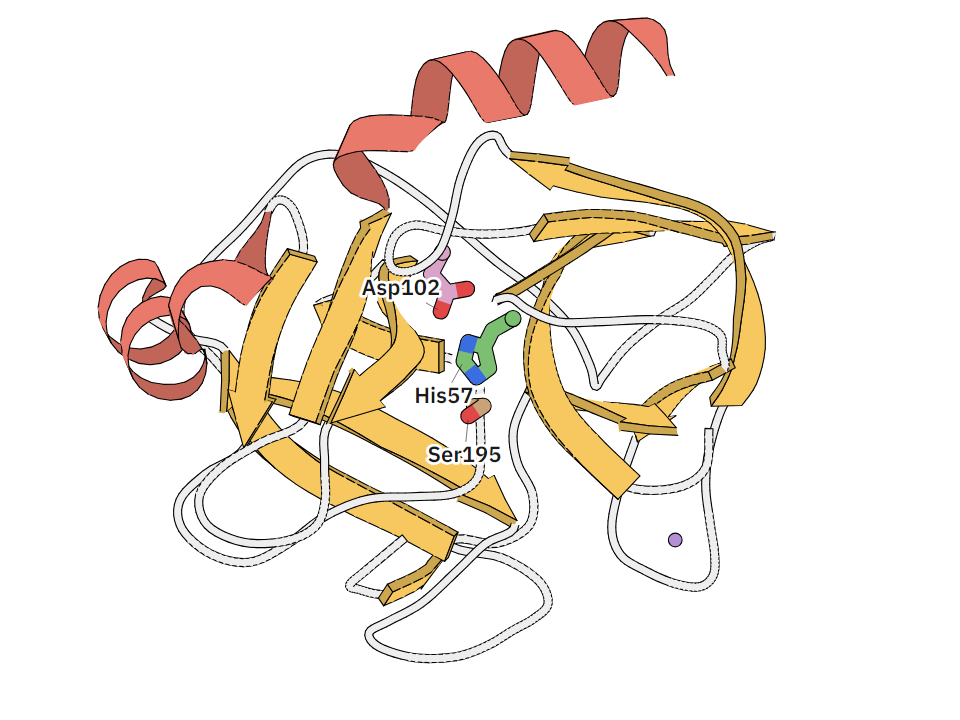
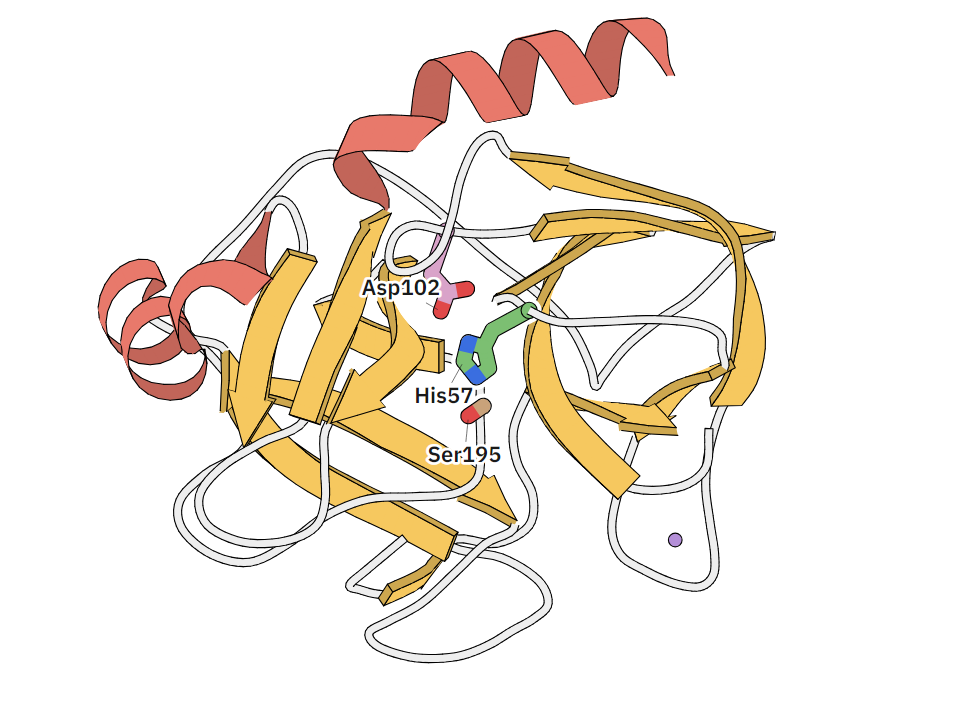
Side chains grow out of their ribbons; flat outlines unbroken again
A strand or coil is smoothed through its Cα (Priestle's smoothing, as MOLSCRIPT; the
sketched ribbon flattens its sheets), so a Cα lies up to an ångström off the ribbon drawn
for it. With the side-chain helper leaving the backbone to the cartoon, a side chain was
drawn from that Cα and floated beside its ribbon. Its Cα is now drawn where the ribbon
passes (ribbonAnchors), so the side chain grows out of it. The ribbons themselves are as
they were: the elements and the smoothing are the cartoon's own, shared
(ribbonElements, priestle). Only side chains on smoothed residues move.

Flat ribbons: the 3 px a face runs under the next one covered the inner half of that
face's outline when drawn after it, and the outlines of thin tubes came out dashed. The
run-on is now a tab kept half an outline clear of the ribbon's edges, where the outlines
themselves cover the seam: seamless at full size and at a fifth, outlines whole.

Changed region(s): [[0.5312, 0.3972, 0.5625, 0.4583], [0.4375, 0.3056, 0.4688, 0.3667]]

diff --git a/app/src/classic/engine.js b/app/src/classic/engine.js
@@ -1444,6 +1444,28 @@ function backboneTraces(atoms,sel){
     if(!cur){cur={atoms:[]};traces.push(cur)}cur.atoms.push(a)}
   return traces.filter(t=>t.atoms.length>=2);
 }
+/* the elements a chain's engraved ribbon is made of, as MolAuto writes them: runs of H (≥3 residues) and E (≥2), the
+   rest coil; neighbours share their end residue */
+function ribbonElements(A){const n=A.length;
+  const ss=A.map(a=>a.nucleic?'L':(a.ss==='H'||a.ss==='E'?a.ss:'L'));
+  const runs=[];for(let i=0;i<n;){let j=i;while(j+1<n&&ss[j+1]===ss[i])j++;runs.push({t:ss[i],s:i,e:j});i=j+1}
+  for(const r of runs)if((r.t==='H'&&r.e-r.s<2)||(r.t==='E'&&r.e-r.s<1))r.t='L';
+  const el=[];for(const r of runs){const last=el[el.length-1];if(last&&last.t==='L'&&r.t==='L')last.e=r.e;else el.push({...r})}
+  for(let k=0;k<el.length-1;k++)el[k].e=el[k+1].s;   // each element ends on the residue where the next begins
+  return el}
+/* Priestle's smoothing of a strand or coil (as MOLSCRIPT): each inner point halfway to the middle of its neighbours */
+function priestle(pts,steps){for(let s=0;s<steps;s++){const tmp=pts.map(p=>p.slice());
+  for(let i=1;i<pts.length-1;i++){const a=pts[i-1],b=pts[i+1],c=pts[i];tmp[i]=[((a[0]+b[0])/2+c[0])/2,((a[1]+b[1])/2+c[1])/2,((a[2]+b[2])/2+c[2])/2]}
+  for(let i=1;i<pts.length-1;i++)pts[i]=tmp[i]}}
+/* where the drawn ribbon passes each residue whose Cα it does not go through, by the Cα's id: strands and coils are
+   smoothed (and the sketched ribbon flattens its sheets), so their Cα lie up to an ångström off the ribbon. A side
+   chain whose backbone is left to the cartoon is drawn from here, so it grows out of the ribbon, not beside it */
+function ribbonAnchors(atoms,sel){const out=new Map();
+  for(const tr of backboneTraces(atoms,sel)){const A=tr.atoms,n=A.length;
+    if(cfg.rep.cartoonStyle==='engraved'){for(const e of ribbonElements(A)){const len=e.e-e.s+1;if(len<2||(e.t==='H'&&len>=3))continue;
+        const p=[];for(let i=e.s;i<=e.e;i++)p.push(A[i].pos.slice());priestle(p,2);for(let k=1;k<len-1;k++)out.set(A[e.s+k].id,p[k])}}
+    else for(let i=1;i<n-1;i++)if(A[i].ss==='E')out.set(A[i].id,[0,1,2].map(k=>0.25*A[i-1].pos[k]+0.5*A[i].pos[k]+0.25*A[i+1].pos[k]))}
+  return out}
 function catmull(P,i,t){const p0=P[Math.max(0,i-1)],p1=P[i],p2=P[Math.min(P.length-1,i+1)],p3=P[Math.min(P.length-1,i+2)];const t2=t*t,t3=t2*t;
   return[0,1,2].map(k=>0.5*((2*p1[k])+(-p0[k]+p2[k])*t+(2*p0[k]-5*p1[k]+4*p2[k]-p3[k])*t2+(-p0[k]+3*p1[k]-3*p2[k]+p3[k])*t3))}
 function sketchOffsets(pts,seed,passes){ // jittered copies of a polyline (no resampling), one per pass
@@ -1470,7 +1492,6 @@ function buildCartoonEngraved(items,atoms,sel,proj,seedBase){
   const add=(a,b,f=1)=>[a[0]+b[0]*f,a[1]+b[1]*f,a[2]+b[2]*f],mid=(a,b)=>[(a[0]+b[0])/2,(a[1]+b[1])/2,(a[2]+b[2])/2],scl=(a,f)=>[a[0]*f,a[1]*f,a[2]*f];
   const herm=(p0,p1,v0,v1,t)=>{const t2=t*t,t3=t2*t;const h1=2*t3-3*t2+1,h2=t3-2*t2+t,h3=-2*t3+3*t2,h4=t3-t2;return[0,1,2].map(k=>h1*p0[k]+h2*v0[k]+h3*p1[k]+h4*v1[k])};
   const hermT=(p0,p1,v0,v1,t)=>{const t2=t*t;const h1=6*t2-6*t,h2=3*t2-4*t+1,h3=-6*t2+6*t,h4=3*t2-2*t;return[0,1,2].map(k=>h1*p0[k]+h2*v0[k]+h3*p1[k]+h4*v1[k])};
-  const priestle=(pts,steps)=>{for(let s=0;s<steps;s++){const tmp=pts.map(p=>p.slice());for(let i=1;i<pts.length-1;i++)tmp[i]=mid(mid(pts[i-1],pts[i+1]),pts[i]);for(let i=1;i<pts.length-1;i++)pts[i]=tmp[i]}};
   const nz=n=>proj.rot([n[0]+FIT.cx,n[1]+FIT.cy,n[2]+FIT.cz])[2]; // z of a direction in view space (+ toward the viewer)
   const P2=p=>{const q=proj.proj(p);return[q.x,q.y,q.z,q.d,q.fog]};
   const HA=32*Math.PI/180,HB=-11*Math.PI/180,HH=4.7;
@@ -1506,11 +1527,18 @@ function buildCartoonEngraved(items,atoms,sel,proj,seedBase){
         if(lost>0.02&&!fl)fillC=fogged(mix(P.paper,T.coilLine?col:T.hatch,(T.coilLine?0.55:0.3)*lost),fog);
         hl={lw,ks}}
       if(T.flat){ /* solid faces meet edge to edge, and two antialiased edges let the paper through as a hairline: each face runs
-          on under the next one of its ribbon, so the colour is unbroken and each face is one shape. 3 px (or half the face):
-          enough for a pixel's corner (0.7 px from its centre) when the drawing is shrunk to a fifth, as an SVG placed in a
-          slide is. Not past an inked end, an arrow's point or the ribbon's last face (the next element is another colour) */
-        const ext=(a,b)=>{const L=Math.hypot(b[0]-a[0],b[1]-a[1]),e=Math.min(3,0.5*L);return L>1e-6?[b[0]+(b[0]-a[0])/L*e,b[1]+(b[1]-a[1])/L*e]:b};
-        const f=edges[1]||last||alpha<1||Math.hypot(q[2][0]-q[1][0],q[2][1]-q[1][1])<1?q:[q[0],ext(q[0],q[1]),ext(q[3],q[2]),q[3]];poly(ctx,f);ctx.fillStyle=kind==='side'?side:fillC;ctx.fill()}
+          on under the next one of its ribbon in a tab, so the colour is unbroken and each face is one shape. 3 px (or half
+          the face): enough for a pixel's corner (0.7 px from its centre) when the drawing is shrunk to a fifth, as an SVG
+          placed in a slide is. The tab keeps half an outline clear of the ribbon's edges, where the outlines cover the seam:
+          drawn after the next face, it must not cover the inner half of that face's outline (the outline came out dashed).
+          Not past an inked end, an arrow's point or the ribbon's last face (the next element is another colour) */
+        let f=q;const W=Math.hypot(q[2][0]-q[1][0],q[2][1]-q[1][1]),inset=0.5*wInk+0.25;
+        const La=Math.hypot(q[1][0]-q[0][0],q[1][1]-q[0][1]),Lb=Math.hypot(q[2][0]-q[3][0],q[2][1]-q[3][1]);
+        if(!(edges[1]||last||alpha<1)&&W>2*inset+0.5&&La>1e-6&&Lb>1e-6){const e=Math.min(3,0.5*Math.min(La,Lb));
+          const ia=[q[1][0]+(q[2][0]-q[1][0])/W*inset,q[1][1]+(q[2][1]-q[1][1])/W*inset],ib=[q[2][0]+(q[1][0]-q[2][0])/W*inset,q[2][1]+(q[1][1]-q[2][1])/W*inset];
+          const ua=[(q[1][0]-q[0][0])/La*e,(q[1][1]-q[0][1])/La*e],ub=[(q[2][0]-q[3][0])/Lb*e,(q[2][1]-q[3][1])/Lb*e];
+          f=[q[0],q[1],ia,[ia[0]+ua[0],ia[1]+ua[1]],[ib[0]+ub[0],ib[1]+ub[1]],ib,q[2],q[3]]}
+        poly(ctx,f);ctx.fillStyle=kind==='side'?side:fillC;ctx.fill()}
       else{poly(ctx,q);if(kind==='side'){ctx.fillStyle=side;ctx.fill();ctx.lineWidth=0.5;ctx.strokeStyle=side;ctx.stroke()}else{ctx.fillStyle=fillC;ctx.fill();ctx.lineWidth=0.6;ctx.strokeStyle=fillC;ctx.stroke()}}
       const la=Math.hypot(q[1][0]-q[0][0],q[1][1]-q[0][1])+Math.hypot(q[2][0]-q[3][0],q[2][1]-q[3][1]);
       if(kind==='plain'&&T.coilLine&&la>0.05){ctx.lineWidth=lw0*1.6;ctx.strokeStyle=hatch;ctx.beginPath();ctx.moveTo((q[0][0]+q[3][0])/2,(q[0][1]+q[3][1])/2);ctx.lineTo((q[1][0]+q[2][0])/2,(q[1][1]+q[2][1])/2);ctx.stroke()}
@@ -1534,11 +1562,7 @@ function buildCartoonEngraved(items,atoms,sel,proj,seedBase){
     const A=tr.atoms,n=A.length;const pts=A.map(a=>a.pos.slice());
     const rc=(i,t)=>ownColor(A[i])||(colourMode==='rainbow'?(mode==='ink colour'?hsv(0.6667*(1-i/Math.max(1,n-1)),0.9,0.8):hsv(0.6667*(1-i/Math.max(1,n-1)),0.75,0.95)):colourMode==='carbon'?carbonColor(A[i]):colourMode==='chain'?chainColor(A[i]):ssCol(t));
     // elements: runs of H (≥3 residues) and E (≥2), the rest coil; neighbours share their end residue, as MolAuto writes them
-    const ss=A.map(a=>a.nucleic?'L':(a.ss==='H'||a.ss==='E'?a.ss:'L'));
-    const runs=[];for(let i=0;i<n;){let j=i;while(j+1<n&&ss[j+1]===ss[i])j++;runs.push({t:ss[i],s:i,e:j});i=j+1}
-    for(const r of runs)if((r.t==='H'&&r.e-r.s<2)||(r.t==='E'&&r.e-r.s<1))r.t='L';
-    const el=[];for(const r of runs){const last=el[el.length-1];if(last&&last.t==='L'&&r.t==='L')last.e=r.e;else el.push({...r})}
-    for(let k=0;k<el.length-1;k++)el[k].e=el[k+1].s;   // each element ends on the residue where the next begins
+    const el=ribbonElements(A);
     for(const e of el){
       const idx=[];for(let i=e.s;i<=e.e;i++)idx.push(i);if(idx.length<2)continue;
       const alpha=A[idx[0]].alpha??1;
@@ -2070,6 +2094,11 @@ function renderFrame(ctx,W,H,frame,dpr){
       SITE={x:sx,y:sy,z:sz,zmin,r:r+2.5*proj.pxPerA,quiet:clamp(cfg.rep.siteQuiet??0.35,0,1),cut:cfg.rep.siteCutaway!==false}}}
   const stickAtoms=st.atoms.filter(a=>{if(!selS(a)&&!a._site)return false;if(a.el==='H'&&!SH.H)return false;
     if(cfg.rep.sideChainHelper&&cartoonRes.has((a.chain||'')+'/'+a.resi)&&(a.name==='N'||a.name==='C'||a.name==='O'||a.name==='OXT'))return false;return true});
+  // where the backbone is left to the cartoon, a side chain grows out of the ribbon: its Cα is drawn where the ribbon
+  // passes (ribbonAnchors), not where the smoothing left it
+  if(cartoonOn&&cfg.rep.sideChainHelper&&stickAtoms.some(a=>a.name==='CA'&&!a.nucleic&&cartoonRes.has((a.chain||'')+'/'+a.resi))){
+    const anchors=ribbonAnchors(st.atoms,selC);
+    for(const a of stickAtoms){if(a.name!=='CA'||a.nucleic)continue;const q=anchors.get(a.id);if(q)pos[a.id]=proj.proj(q)}}
   const stickIds=new Set(stickAtoms.map(a=>a.id));
   const stickBonds=st.bonds.filter(b=>stickIds.has(b.a)&&stickIds.has(b.b));
   const surfAtoms=reps.surface&&reps.surface.trim()?st.atoms.filter(a=>selF(a)&&(SH.H||a.el!=='H')):[];

diff --git a/python/molsketch/_core.js b/python/molsketch/_core.js
@@ -5944,6 +5944,53 @@
       }
       return traces.filter((t) => t.atoms.length >= 2);
     }
+    function ribbonElements(A) {
+      const n = A.length;
+      const ss = A.map((a) => a.nucleic ? "L" : a.ss === "H" || a.ss === "E" ? a.ss : "L");
+      const runs = [];
+      for (let i = 0; i < n; ) {
+        let j = i;
+        while (j + 1 < n && ss[j + 1] === ss[i]) j++;
+        runs.push({ t: ss[i], s: i, e: j });
+        i = j + 1;
+      }
+      for (const r of runs) if (r.t === "H" && r.e - r.s < 2 || r.t === "E" && r.e - r.s < 1) r.t = "L";
+      const el = [];
+      for (const r of runs) {
+        const last = el[el.length - 1];
+        if (last && last.t === "L" && r.t === "L") last.e = r.e;
+        else el.push({ ...r });
+      }
+      for (let k = 0; k < el.length - 1; k++) el[k].e = el[k + 1].s;
+      return el;
+    }
+    function priestle(pts, steps) {
+      for (let s = 0; s < steps; s++) {
+        const tmp = pts.map((p) => p.slice());
+        for (let i = 1; i < pts.length - 1; i++) {
+          const a = pts[i - 1], b = pts[i + 1], c = pts[i];
+          tmp[i] = [((a[0] + b[0]) / 2 + c[0]) / 2, ((a[1] + b[1]) / 2 + c[1]) / 2, ((a[2] + b[2]) / 2 + c[2]) / 2];
+        }
+        for (let i = 1; i < pts.length - 1; i++) pts[i] = tmp[i];
+      }
+    }
+    function ribbonAnchors(atoms, sel) {
+      const out = /* @__PURE__ */ new Map();
+      for (const tr of backboneTraces(atoms, sel)) {
+        const A = tr.atoms, n = A.length;
+        if (cfg.rep.cartoonStyle === "engraved") {
+          for (const e of ribbonElements(A)) {
+            const len = e.e - e.s + 1;
+            if (len < 2 || e.t === "H" && len >= 3) continue;
+            const p = [];
+            for (let i = e.s; i <= e.e; i++) p.push(A[i].pos.slice());
+            priestle(p, 2);
+            for (let k = 1; k < len - 1; k++) out.set(A[e.s + k].id, p[k]);
+          }
+        } else for (let i = 1; i < n - 1; i++) if (A[i].ss === "E") out.set(A[i].id, [0, 1, 2].map((k) => 0.25 * A[i - 1].pos[k] + 0.5 * A[i].pos[k] + 0.25 * A[i + 1].pos[k]));
+      }
+      return out;
+    }
     function catmull(P, i, t) {
       const p0 = P[Math.max(0, i - 1)], p1 = P[i], p2 = P[Math.min(P.length - 1, i + 1)], p3 = P[Math.min(P.length - 1, i + 2)];
       const t2 = t * t, t3 = t2 * t;
@@ -5996,13 +6043,6 @@
         const t2 = t * t;
         const h1 = 6 * t2 - 6 * t, h2 = 3 * t2 - 4 * t + 1, h3 = -6 * t2 + 6 * t, h4 = 3 * t2 - 2 * t;
         return [0, 1, 2].map((k) => h1 * p0[k] + h2 * v0[k] + h3 * p1[k] + h4 * v1[k]);
-      };
-      const priestle = (pts, steps) => {
-        for (let s = 0; s < steps; s++) {
-          const tmp = pts.map((p) => p.slice());
-          for (let i = 1; i < pts.length - 1; i++) tmp[i] = mid2(mid2(pts[i - 1], pts[i + 1]), pts[i]);
-          for (let i = 1; i < pts.length - 1; i++) pts[i] = tmp[i];
-        }
       };
       const nz = (n) => proj.rot([n[0] + FIT.cx, n[1] + FIT.cy, n[2] + FIT.cz])[2];
       const P2 = (p) => {
@@ -6064,11 +6104,15 @@
             hl = { lw, ks };
           }
           if (T.flat) {
-            const ext = (a, b) => {
-              const L = Math.hypot(b[0] - a[0], b[1] - a[1]), e = Math.min(3, 0.5 * L);
-              return L > 1e-6 ? [b[0] + (b[0] - a[0]) / L * e, b[1] + (b[1] - a[1]) / L * e] : b;
-            };
-            const f2 = edges[1] || last || alpha < 1 || Math.hypot(q[2][0] - q[1][0], q[2][1] - q[1][1]) < 1 ? q : [q[0], ext(q[0], q[1]), ext(q[3], q[2]), q[3]];
+            let f2 = q;
+            const W = Math.hypot(q[2][0] - q[1][0], q[2][1] - q[1][1]), inset = 0.5 * wInk + 0.25;
+            const La = Math.hypot(q[1][0] - q[0][0], q[1][1] - q[0][1]), Lb = Math.hypot(q[2][0] - q[3][0], q[2][1] - q[3][1]);
+            if (!(edges[1] || last || alpha < 1) && W > 2 * inset + 0.5 && La > 1e-6 && Lb > 1e-6) {
+              const e = Math.min(3, 0.5 * Math.min(La, Lb));
+              const ia = [q[1][0] + (q[2][0] - q[1][0]) / W * inset, q[1][1] + (q[2][1] - q[1][1]) / W * inset], ib = [q[2][0] + (q[1][0] - q[2][0]) / W * inset, q[2][1] + (q[1][1] - q[2][1]) / W * inset];
+              const ua = [(q[1][0] - q[0][0]) / La * e, (q[1][1] - q[0][1]) / La * e], ub = [(q[2][0] - q[3][0]) / Lb * e, (q[2][1] - q[3][1]) / Lb * e];
+              f2 = [q[0], q[1], ia, [ia[0] + ua[0], ia[1] + ua[1]], [ib[0] + ub[0], ib[1] + ub[1]], ib, q[2], q[3]];
+            }
             poly(ctx, f2);
             ctx.fillStyle = kind === "side" ? side : fillC;
             ctx.fill();
@@ -6138,22 +6182,7 @@
         const A = tr.atoms, n = A.length;
         const pts = A.map((a) => a.pos.slice());
         const rc = (i, t) => ownColor(A[i]) || (colourMode === "rainbow" ? mode === "ink colour" ? hsv(0.6667 * (1 - i / Math.max(1, n - 1)), 0.9, 0.8) : hsv(0.6667 * (1 - i / Math.max(1, n - 1)), 0.75, 0.95) : colourMode === "carbon" ? carbonColor(A[i]) : colourMode === "chain" ? chainColor(A[i]) : ssCol(t));
-        const ss = A.map((a) => a.nucleic ? "L" : a.ss === "H" || a.ss === "E" ? a.ss : "L");
-        const runs = [];
-        for (let i = 0; i < n; ) {
-          let j = i;
-          while (j + 1 < n && ss[j + 1] === ss[i]) j++;
-          runs.push({ t: ss[i], s: i, e: j });
-          i = j + 1;
-        }
-        for (const r of runs) if (r.t === "H" && r.e - r.s < 2 || r.t === "E" && r.e - r.s < 1) r.t = "L";
-        const el = [];
-        for (const r of runs) {
-          const last = el[el.length - 1];
-          if (last && last.t === "L" && r.t === "L") last.e = r.e;
-          else el.push({ ...r });
-        }
-        for (let k = 0; k < el.length - 1; k++) el[k].e = el[k + 1].s;
+        const el = ribbonElements(A);
         for (const e of el) {
           const idx = [];
           for (let i = e.s; i <= e.e; i++) idx.push(i);
@@ -7606,6 +7635,14 @@
         if (cfg.rep.sideChainHelper && cartoonRes.has((a.chain || "") + "/" + a.resi) && (a.name === "N" || a.name === "C" || a.name === "O" || a.name === "OXT")) return false;
         return true;
       });
+      if (cartoonOn && cfg.rep.sideChainHelper && stickAtoms.some((a) => a.name === "CA" && !a.nucleic && cartoonRes.has((a.chain || "") + "/" + a.resi))) {
+        const anchors = ribbonAnchors(st.atoms, selC);
+        for (const a of stickAtoms) {
+          if (a.name !== "CA" || a.nucleic) continue;
+          const q = anchors.get(a.id);
+          if (q) pos[a.id] = proj.proj(q);
+        }
+      }
       const stickIds = new Set(stickAtoms.map((a) => a.id));
       const stickBonds = st.bonds.filter((b) => stickIds.has(b.a) && stickIds.has(b.b));
       const surfAtoms = reps.surface && reps.surface.trim() ? st.atoms.filter((a) => selF(a) && (SH.H || a.el !== "H")) : [];

diff --git a/python/docs/style.md b/python/docs/style.md
@@ -38,7 +38,7 @@ Contents: [Fill and representation](#fill-and-representation) · [Depth in a sur
 | `cartoon_style` | `"engraved"` | `"engraved"`: white ribbons shaded with lines along their length, after MOLSCRIPT. `"sketch"`: ribbons filled in the style of `fill` |
 | `stick_style` | `"auto"` | whether sticks follow the engraved style too: `"auto"` (when the ribbons are engraved), `"engraved"` (always) or `"sketch"` (never); or `"flat"`: PyMOL's sticks under flat light, solid colour split at each bond's middle, round joints |
 | `stick_outline` | `"auto"` | with flat sticks, an ink line round their silhouette (never across a joint or where a bond changes colour), as PyMOL's `ray_trace_mode 1`: `"on"`, `"off"`, or `"auto"` (when ribbons are drawn, so side chains match the ribbons' outlines and a mechanism in sticks alone stays plain) |
-| `side_chain_helper` | `true` | where a residue is drawn as cartoon, leave its backbone atoms out of the sticks, so only the side chain sticks out of the ribbon |
+| `side_chain_helper` | `true` | where a residue is drawn as cartoon, leave its backbone atoms out of the sticks, so only the side chain sticks out of the ribbon; its Cα is drawn where the ribbon passes (strands and loops are smoothed through their Cα, up to an ångström off them), so the side chain grows out of the ribbon rather than beside it |
 | `probe` | `1.4` | the surface is drawn as each residue's atom discs, enlarged by this probe radius (Å); larger values give a smoother, fatter surface |
 
 The fills:
